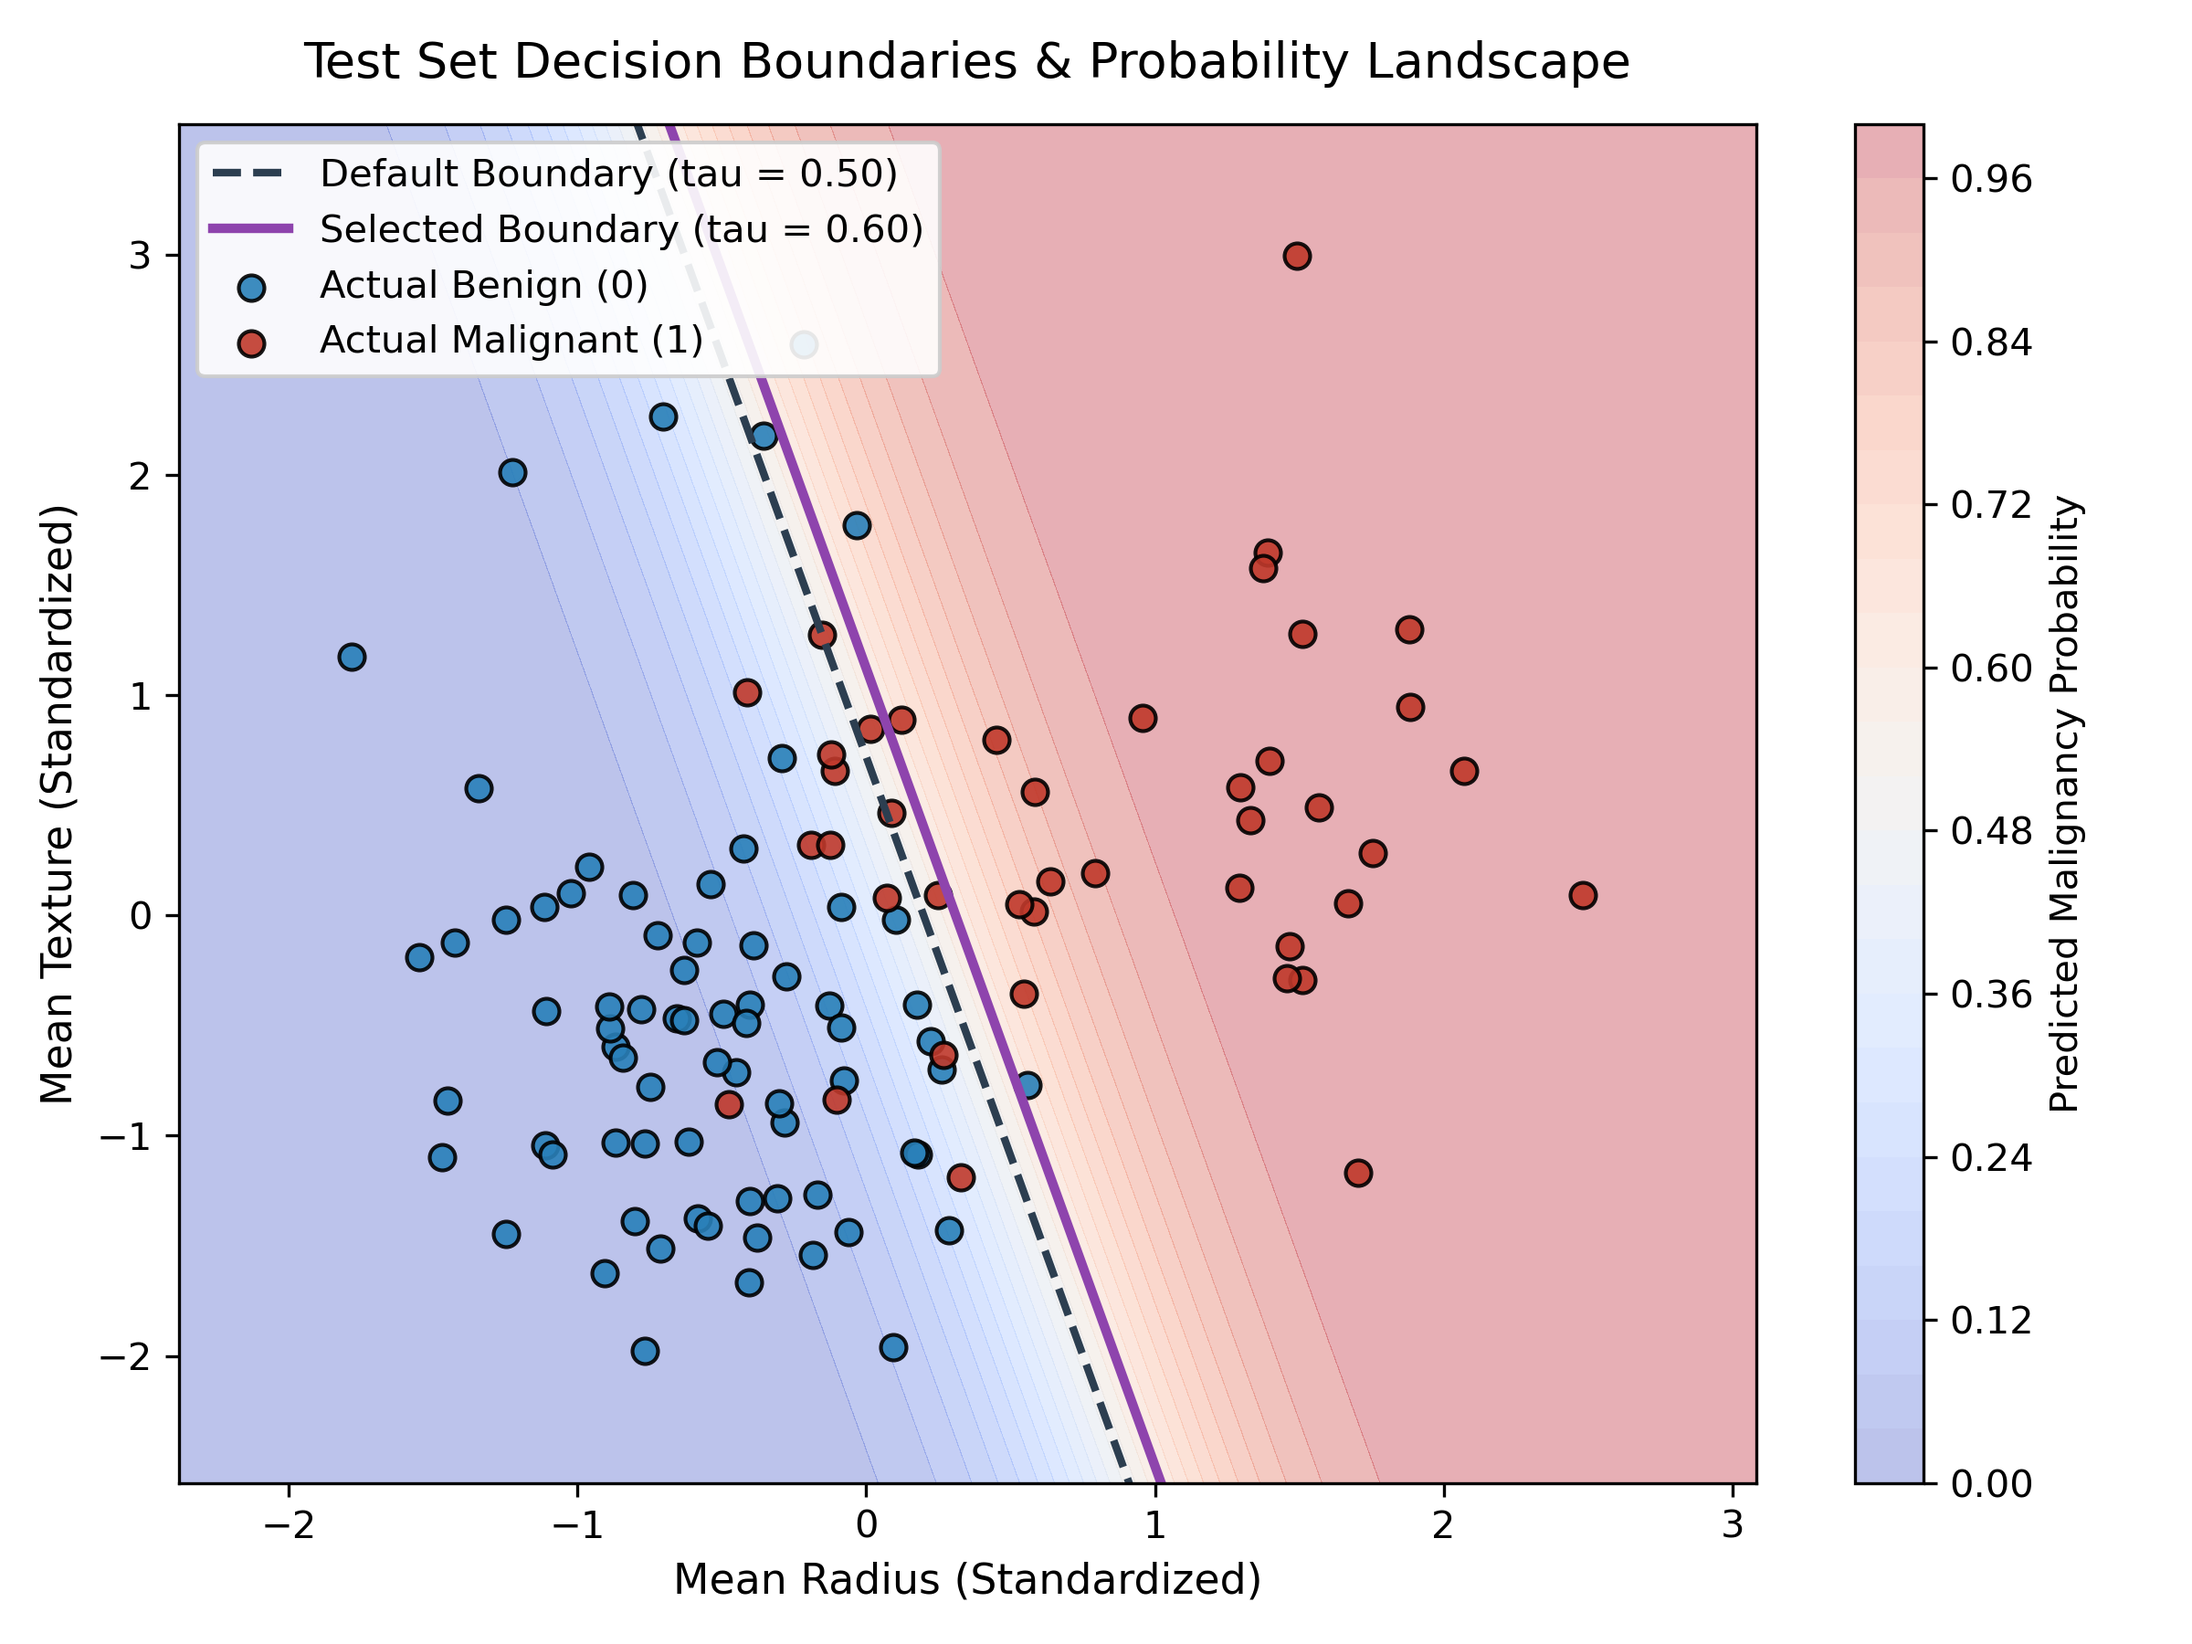
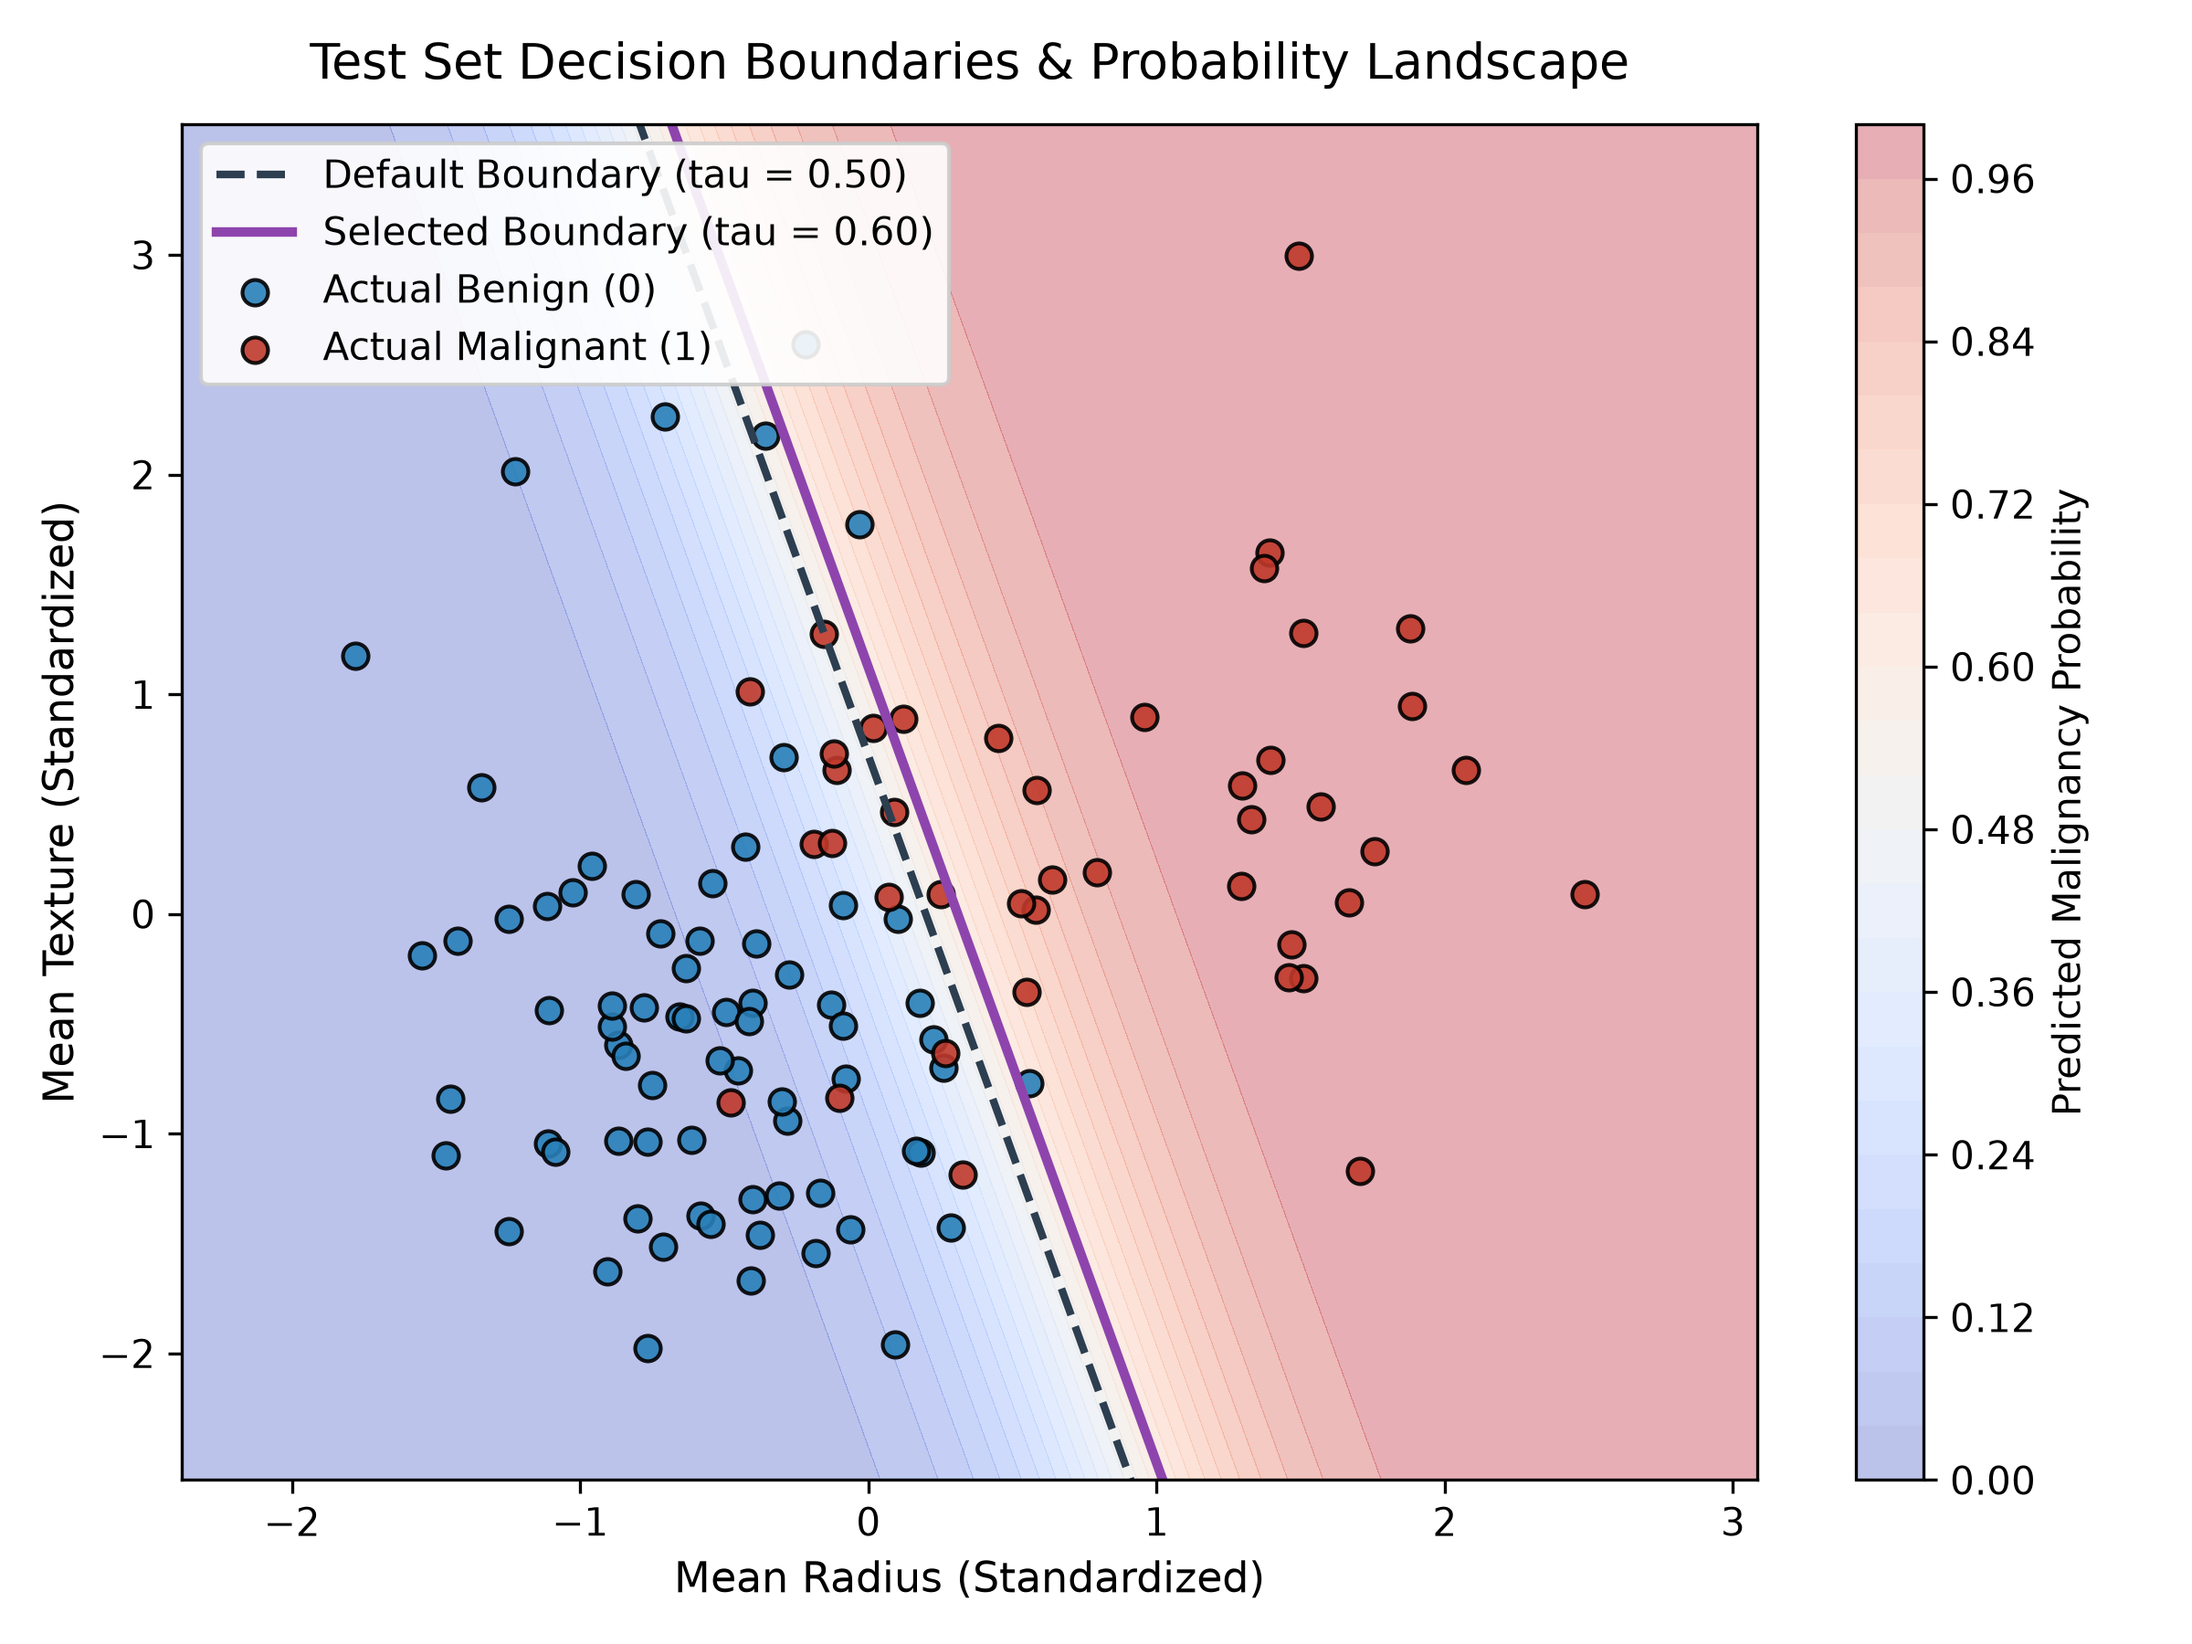
Organize project into src/ and notebooks/ with walkthrough and updated README

diff --git a/src/logistic_regression_analysis.py b/src/logistic_regression_analysis.py
@@ -27,7 +27,7 @@ from sklearn.metrics import (
 )
 
 # Resolve paths relative to script location
-BASE_DIR = os.path.dirname(os.path.abspath(__file__))
+BASE_DIR = os.path.dirname(os.path.dirname(os.path.abspath(__file__)))
 REPORTS_DIR = os.path.join(BASE_DIR, "reports")
 os.makedirs(REPORTS_DIR, exist_ok=True)
 
